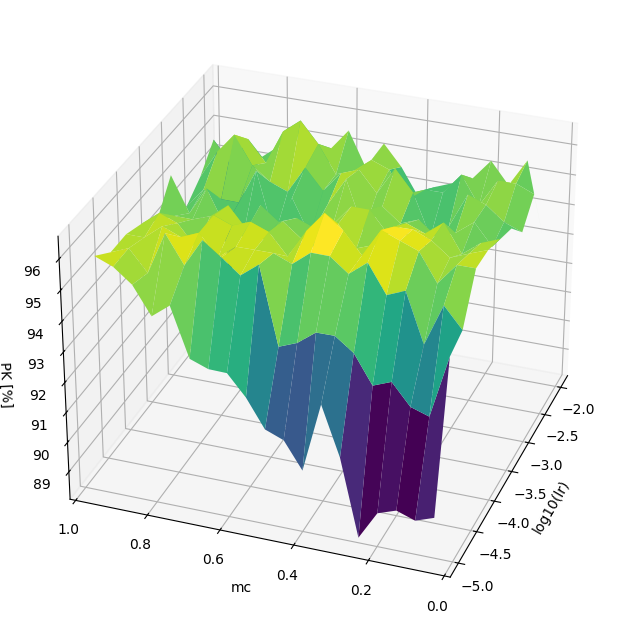
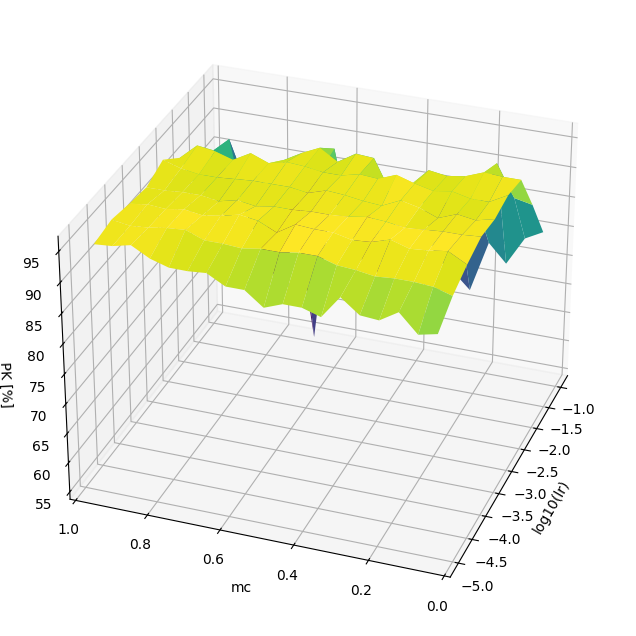
Zmiany

diff --git a/projektAI.tex b/projektAI.tex
@@ -716,9 +716,9 @@ Dla każdej pary \texttt{(K1, K2)} skrypt uczy model i oblicza skuteczność \te
 
 Wynik eksperymentu przedstawiono na rysunku \ref{fig:exp1_k1k2_surface}.
 
-\begin{figure}[h!]
+\begin{figure}[H]
 \centering
-\includegraphics[width=0.9\textwidth]{Fig.1_PK_K1K2_kongres.png}
+\includegraphics[width=0.7\textwidth]{Fig.1_PK_K1K2_kongres.png}
 \caption{Skuteczność \texttt{PK [\%]} w funkcji liczby neuronów \texttt{K1} i \texttt{K2}}
 \label{fig:exp1_k1k2_surface}
 \end{figure}
@@ -740,7 +740,7 @@ W badaniu przyjęto następującą konfigurację:
 \begin{itemize}[label={\textbullet}]
 \item stała architektura sieci: \texttt{K1 = 5}, \texttt{K2 = 6},
 \item stałe warunki uczenia: \texttt{max\_epoch = 400}, \texttt{err\_goal = 1},
-\item przeszukiwana siatka parametrów: $lr \in [10^{-5}, 10^{-2}]$ (skala logarytmiczna),
+\item przeszukiwana siatka parametrów: $lr \in [10^{-5}, 10^{-1}]$ (skala logarytmiczna),
 \item przeszukiwana siatka parametrów: $mc \in \{0.05, 0.10, \ldots, 0.95\}$,
 \item ocena jakości: średnia skuteczność \texttt{PK [\%]} z \texttt{10}-krotnej walidacji krzyżowej.
 \end{itemize}
@@ -763,9 +763,9 @@ Dla każdej pary \texttt{(lr, mc)} z dwuwymiarowej siatki hiperparametrów skryp
 
 Wyniki eksperymentu przedstawiono na rysunku \ref{fig:exp2_lrmc_surface}.
 
-\begin{figure}[h!]
+\begin{figure}[H]
 \centering
-\includegraphics[width=0.9\textwidth]{Fig.2_PK_lrmc_kongres.png}
+\includegraphics[width=0.8\textwidth]{Fig.2_PK_lrmc_kongres.png}
 \caption{Skuteczność \texttt{PK [\%]} w funkcji \texttt{log10(lr)} i \texttt{mc}}
 \label{fig:exp2_lrmc_surface}
 \end{figure}
@@ -774,7 +774,7 @@ Analiza powierzchni wskazuje, że model osiąga wysoką skuteczność w relatywn
 jednak dla zbyt dużych wartości \texttt{lr} pojawiają się wyraźne spadki \texttt{PK}. Oznacza to,
 że zbyt agresywne kroki aktualizacji wag destabilizują uczenie i pogarszają jakość klasyfikacji.
 
-Na podstawie uzyskanych wyników otrzymano optymalną konfigurację parametrów uczenia: \texttt{lr = 0.0001} oraz \texttt{mc = 0.45}.
+Na podstawie uzyskanych wyników otrzymano optymalną konfigurację parametrów uczenia: \texttt{lr = 0.0001} oraz \texttt{mc = 0.25}.
 
 Uzyskano maksymalną skuteczność na poziomie 96,54\%.
 
@@ -868,7 +868,7 @@ W badaniu przyjęto następującą konfigurację:
 \item przeszukiwane parametry architektury: $K1, K2 \in \{1, 2, \ldots, 10\}$,
 \item przeszukiwane parametry uczenia: $lr \in [10^{-5}, 10^{-2}]$,
 \item przeszukiwane parametry uczenia: $mc \in \{0.05, 0.10, \ldots, 0.95\}$,
-\item stałe warunki uczenia: \texttt{max\_epoch = 400}, \texttt{err\_goal = 0.05},
+\item stałe warunki uczenia: \texttt{max\_epoch = 400}, \texttt{err\_goal = 1},
 \item ocena jakości: średnia skuteczność \texttt{PK [\%]} z \texttt{10}-krotnej walidacji krzyżowej,
 \item liczba sprawdzonych kombinacji: $10 \times 10 \times 10 \times 19 = 19\,000$.
 \end{itemize}
@@ -943,7 +943,7 @@ Najlepszą konfigurację uzyskano dla \texttt{K1 = 7}, \texttt{K2 = 1}, \texttt{
 
 \section{Podsumowanie i wnioski}
 
-W projekcie zbudowano i przeanalizowano sieć MLP do klasyfikacji głosowań kongresowych, a uzyskane wyniki pokazały, że model osiąga bardzo wysoką skuteczność przy odpowiednio dobranych hiperparametrach. Najlepszy rezultat wyniósł \texttt{97,01\%} i został osiągnięty dla konfiguracji \texttt{K1 = 7}, \texttt{K2 = 1}, \texttt{lr = 0.0001} oraz \texttt{mc = 0.35}. Oznacza to, że dla tego zadania korzystniejsza jest architektura z większą pierwszą warstwą ukrytą i małą drugą warstwą.
+W projekcie zbudowano i przeanalizowano sieć MLP do klasyfikacji głosowań kongresowych, a uzyskane wyniki pokazały, że model osiąga bardzo wysoką skuteczność przy odpowiednio dobranych hiperparametrach. Najlepszy rezultat wyniósł \texttt{97,01\%} i został osiągnięty dla konfiguracji \texttt{K1 = 7}, \texttt{K2 = 1}, \texttt{lr = 0.0001} oraz \texttt{mc = 0.35}. Oznacza to, że dla tego zadania korzystniejsza jest architektura z większą pierwszą warstwą i małą drugą warstwą.
 
 Wyniki eksperymentów pokazały też, że sieć bardzo często osiągała wysokie wartości skuteczności, a histogram rozkładu wyników był wyraźnie skupiony, a nie rozrzucony. Taki obraz sugeruje, że model nie jest silnie podatny na drobne zmiany parametrów i zachowuje stabilność w szerokim obszarze przestrzeni hiperparametrów. Całość potwierdza więc, że dobrze dobrany MLP może być skutecznym i odpornym na zakłócenia rozwiązaniem dla tego problemu klasyfikacji.
 

diff --git a/exp4_ilosc_danych.py b/exp4_ilosc_danych.py
@@ -4,20 +4,20 @@ import numpy as np
 import matplotlib.pyplot as plt 
 from sklearn.model_selection import train_test_split
 
-from mlp_core import mlp_m_3w # IMPORT NASZEJ SIECI
+from mlp_core import mlp_m_3w
 
 x, y_t, x_norm, x_n_s, y_t_s = hkl.load('kongres.hkl')
 
 X_all = x_norm.T  
 Y_all = y_t.T     
 
-# 2. Parametry sieci
+# Parametry sieci
 K1_fixed, K2_fixed = 5, 6
 max_epoch = 80
 err_goal = 1
 disp_freq = 10 
 lr_fixed = 1e-4
-mc_fixed = 0.45
+mc_fixed = 0.25
 
 
 X_train_pula, X_test, Y_train_pula, Y_test = train_test_split(

diff --git a/exp2_parametry_uczenia.py b/exp2_parametry_uczenia.py
@@ -15,7 +15,7 @@ max_epoch = 400
 err_goal = 1
 disp_freq = 10 
 
-lr_vec = np.logspace(-5, -2, 10) 
+lr_vec = np.logspace(-5, -1, 9) 
 mc_vec = np.arange(0.05, 1.0, 0.05)
 
 CVN = 10
